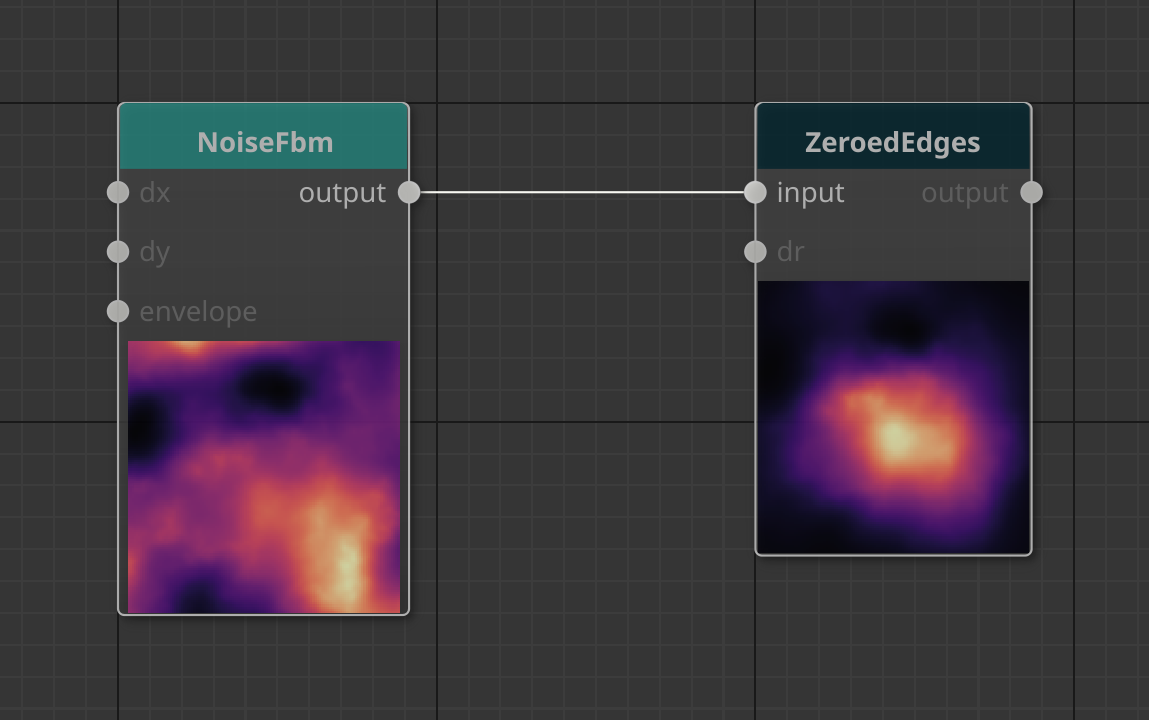
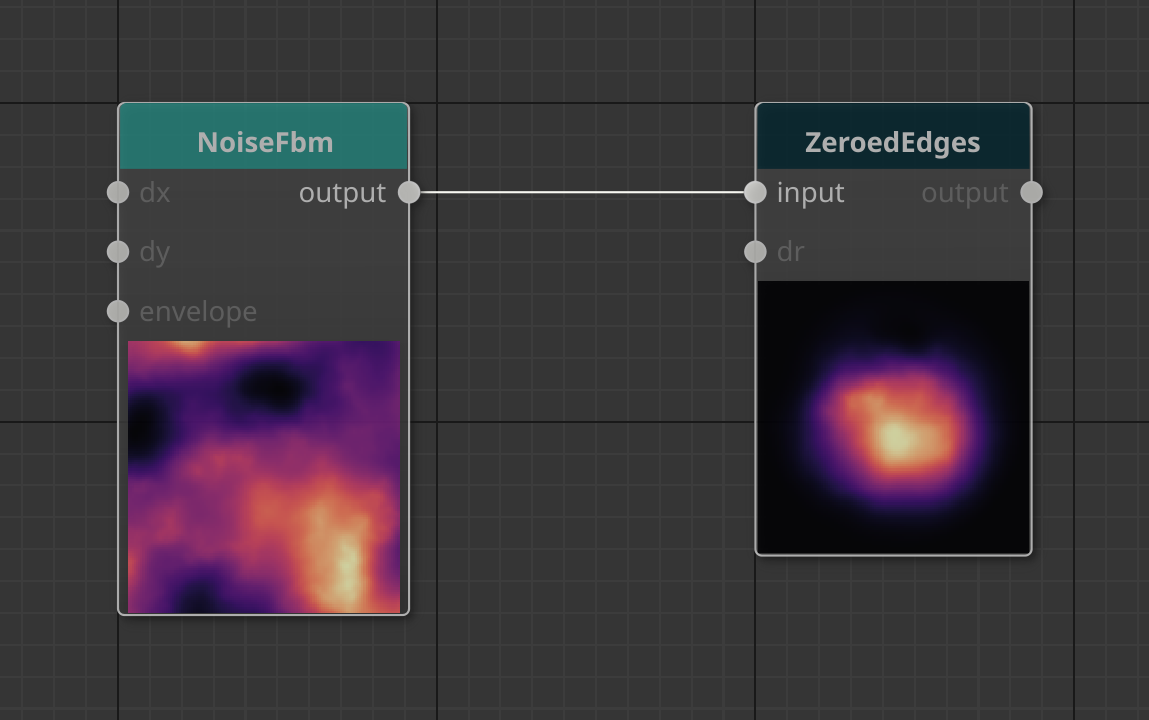
Propagate modification of based zeroed-edges HighMap operator

Changed region(s): [[0.6397, 0.3667, 0.9138, 0.7944]]

diff --git a/Hesiod/src/model/nodes/zeroed_edges.cpp b/Hesiod/src/model/nodes/zeroed_edges.cpp
@@ -23,11 +23,13 @@ ZeroedEdges::ZeroedEdges(const ModelConfig *p_config) : BaseNode(p_config)
   this->output_types = {HeightMapData().type()};
 
   // attributes
-  this->attr["sigma"] = NEW_ATTR_FLOAT(0.25f, 0.f, 0.5f, "%.2f");
+  this->attr["sigma"] = NEW_ATTR_FLOAT(2.f, 1.f, 4.f, "%.2f");
+  this->attr["distance_function"] = NEW_ATTR_MAPENUM(distance_function_map, "Euclidian");
+
   this->attr["remap"] = NEW_ATTR_BOOL(true);
   this->attr["remap_range"] = NEW_ATTR_RANGE();
 
-  this->attr_ordered_key = {"sigma", "remap", "remap_range"};
+  this->attr_ordered_key = {"sigma", "distance_function", "remap", "remap_range"};
 
   // update
   if (this->p_config->compute_nodes_at_instanciation)
@@ -45,7 +47,9 @@ ZeroedEdges::ZeroedEdges(const ModelConfig *p_config) : BaseNode(p_config)
       "Mask defining the filtering intensity (expected in [0, 1])."};
   this->output_descriptions = {"Filtered heightmap."};
 
-  this->attribute_descriptions["sigma"] = "Shape half-width.";
+  this->attribute_descriptions["sigma"] = "Shape power law.";
+  this->attribute_descriptions
+      ["distance_function"] = "Measure used for the distance calculation.";
 }
 
 std::shared_ptr<QtNodes::NodeData> ZeroedEdges::outData(
@@ -95,14 +99,28 @@ void ZeroedEdges::compute()
     if (!p_dr)
       hmap::transform(*p_out,
                       [this, &sigma](hmap::Array &z, hmap::Vec4<float> bbox)
-                      { hmap::zeroed_edges(z, sigma, nullptr, bbox); });
+                      {
+                        hmap::zeroed_edges(
+                            z,
+                            sigma,
+                            (hmap::DistanceFunction)GET_ATTR_MAPENUM("distance_function"),
+                            nullptr,
+                            bbox);
+                      });
 
     else
       hmap::transform(
           *p_out,
           *p_dr,
           [this, &sigma](hmap::Array &z, hmap::Array &dr, hmap::Vec4<float> bbox)
-          { hmap::zeroed_edges(z, sigma, &dr, bbox); });
+          {
+            hmap::zeroed_edges(
+                z,
+                sigma,
+                (hmap::DistanceFunction)GET_ATTR_MAPENUM("distance_function"),
+                &dr,
+                bbox);
+          });
 
     if (GET_ATTR_BOOL("remap"))
       p_out->remap(GET_ATTR_RANGE("remap_range").x, GET_ATTR_RANGE("remap_range").y);

diff --git a/Hesiod/include/hesiod/model/enum_mapping.hpp b/Hesiod/include/hesiod/model/enum_mapping.hpp
@@ -79,6 +79,16 @@ static std::map<std::string, int> cmap_map = {
     {"viridis", hmap::cmap::viridis}};
 
 /**
+ * @brief Plain text / enumerate mapping for the HighMap distance functions.
+ */
+static std::map<std::string, int> distance_function_map = {
+    {"Chebyshev", hmap::DistanceFunction::CHEBYSHEV},
+    {"Euclidian", hmap::DistanceFunction::EUCLIDIAN},
+    {"Euclidian/Chebyshev", hmap::DistanceFunction::EUCLISHEV},
+    {"Manhattan", hmap::DistanceFunction::MANHATTAN},
+};
+
+/**
  * @brief Plain text / enumerate mapping for the stamping blend method.
  */
 static std::map<std::string, int> stamping_blend_method_map = {

diff --git a/docs/node_reference/nodes.md b/docs/node_reference/nodes.md
@@ -4773,4 +4773,5 @@ Math/Boundaries
 
 |Name|Type|Description|
 | :--- | :--- | :--- |
-|sigma|Float|Shape half-width.|
+|distance_function|Enumeration|Measure used for the distance calculation. Available values: Chebyshev, Euclidian, Euclidian/Chebyshev, Manhattan.|
+|sigma|Float|Shape power law.|
